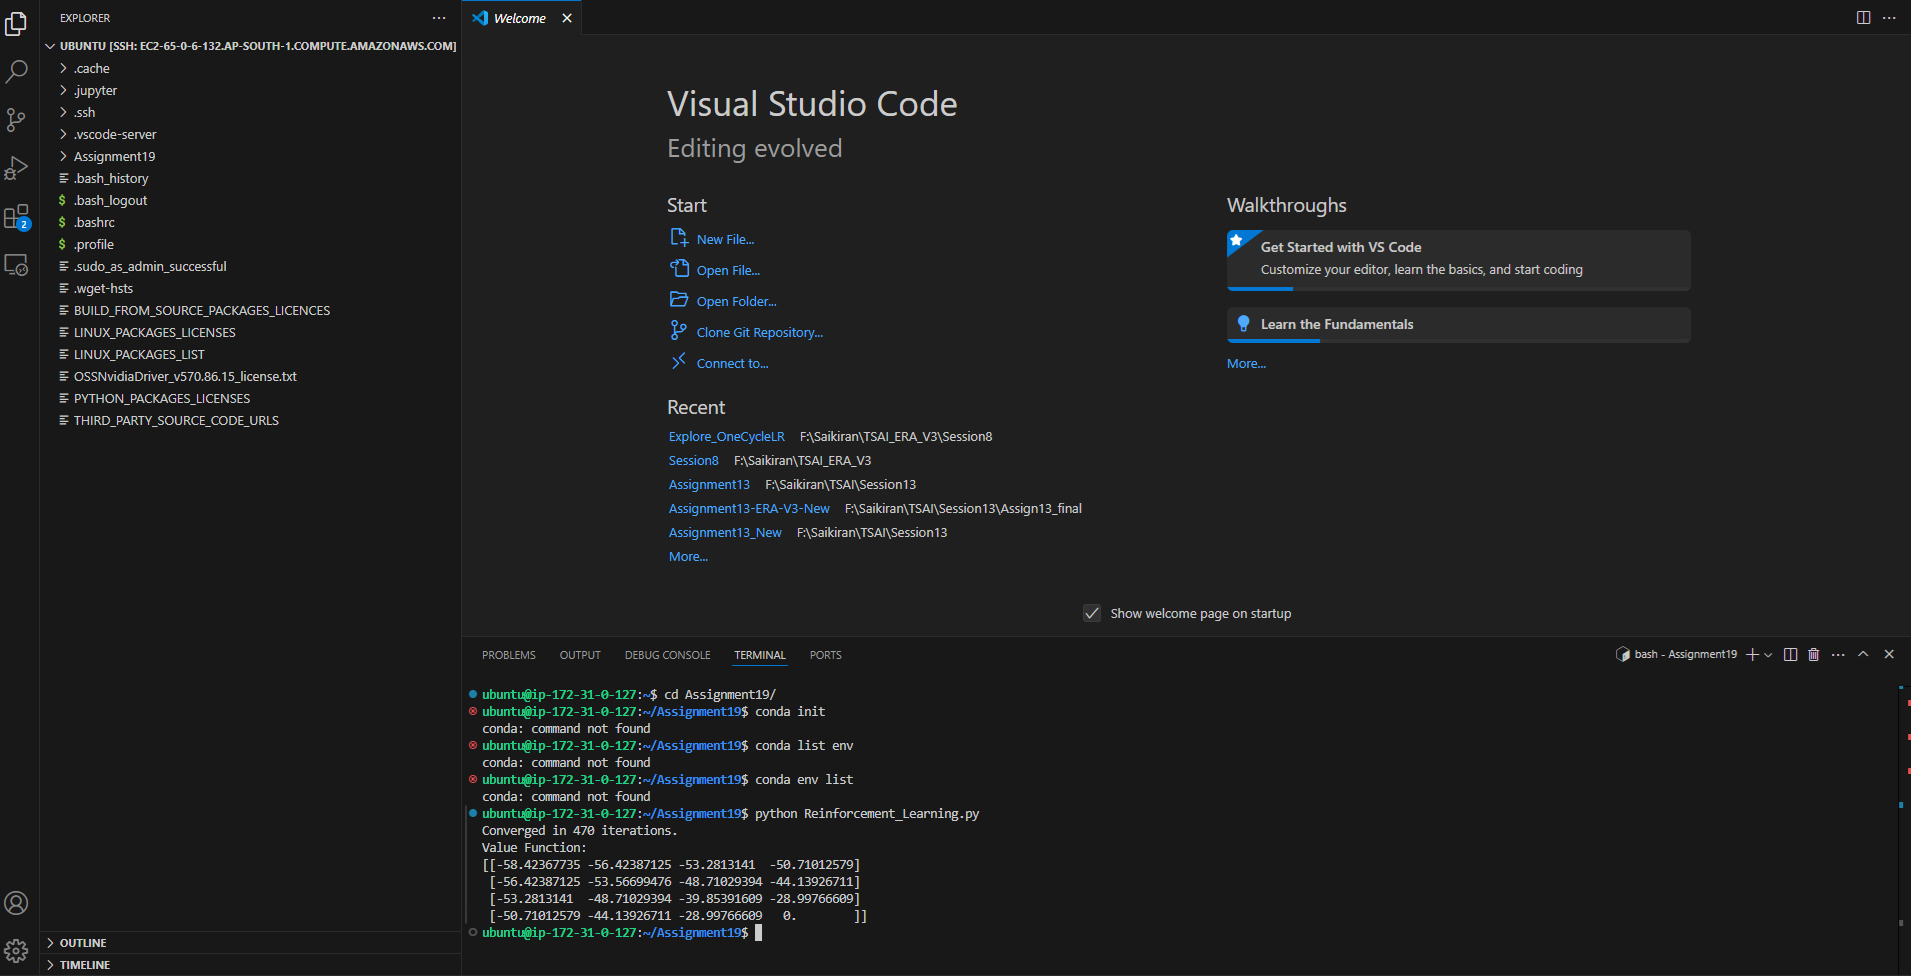
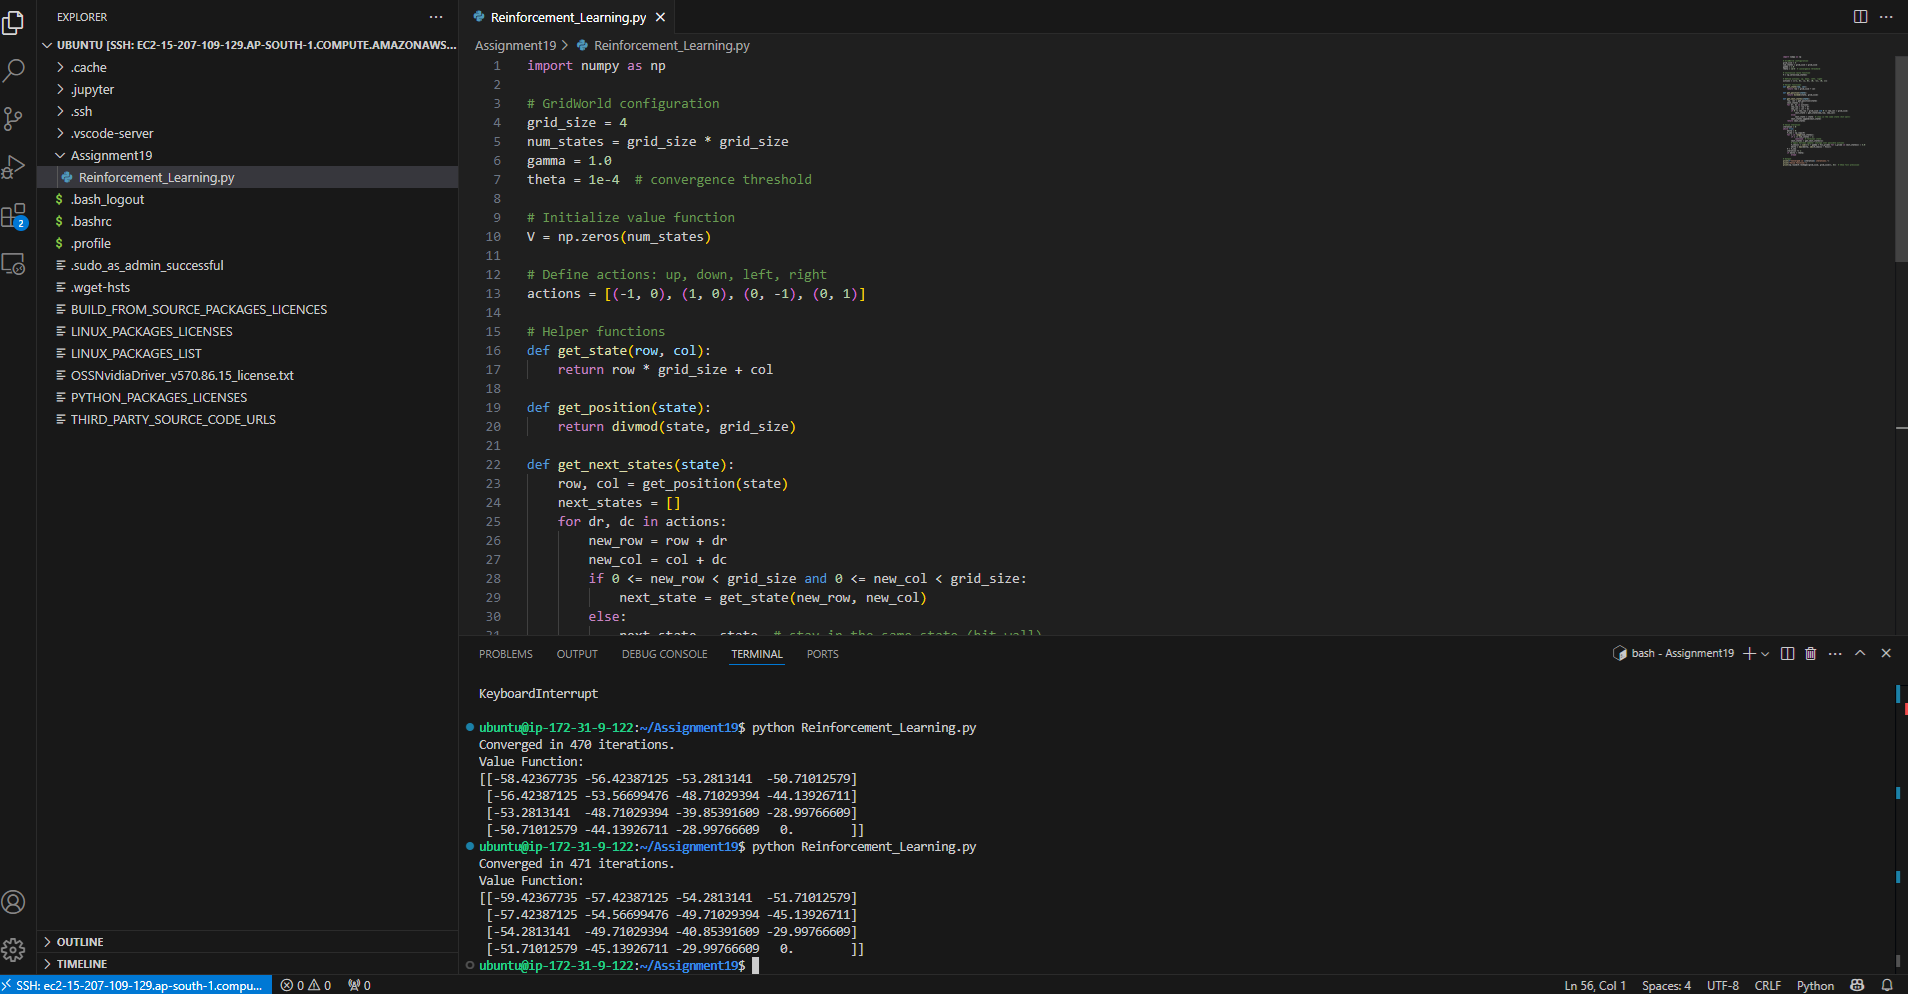
fixed bug in python code

diff --git a/Reinforcement_Learning.py b/Reinforcement_Learning.py
@@ -44,8 +44,8 @@ while True:
     delta = 0
     V_new = np.copy(V)
     for s in range(num_states):
-        if s == num_states - 1:
-            continue  # Terminal state
+        #if s == num_states - 1:
+        #    continue  # Terminal state
         next_states = get_next_states(s)
         expected_value = 0
         for s_prime in next_states:

diff --git a/README.md b/README.md
@@ -1,8 +1,8 @@
 Converged in 470 iterations.
 Value Function:
 <pre>
-[[-58.42367735 -56.42387125 -53.2813141  -50.71012579]
- [-56.42387125 -53.56699476 -48.71029394 -44.13926711]
- [-53.2813141  -48.71029394 -39.85391609 -28.99766609]
- [-50.71012579 -44.13926711 -28.99766609   0.        ]]
+[[-59.42367735 -57.42387125 -54.2813141  -51.71012579]
+ [-57.42387125 -54.56699476 -49.71029394 -45.13926711]
+ [-54.2813141  -49.71029394 -40.85391609 -29.99766609]
+ [-51.71012579 -45.13926711 -29.99766609   0.        ]]
 </pre>
